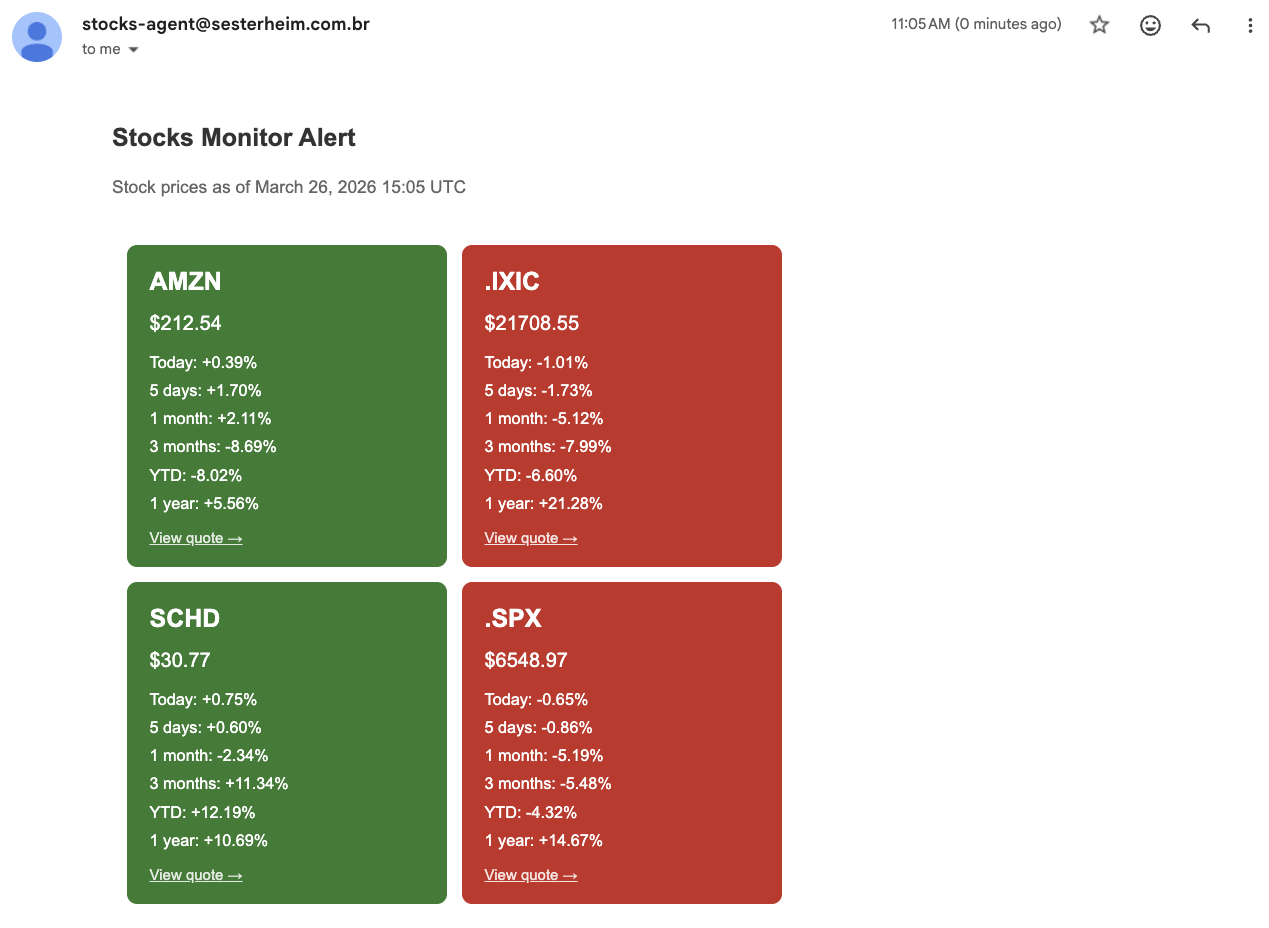
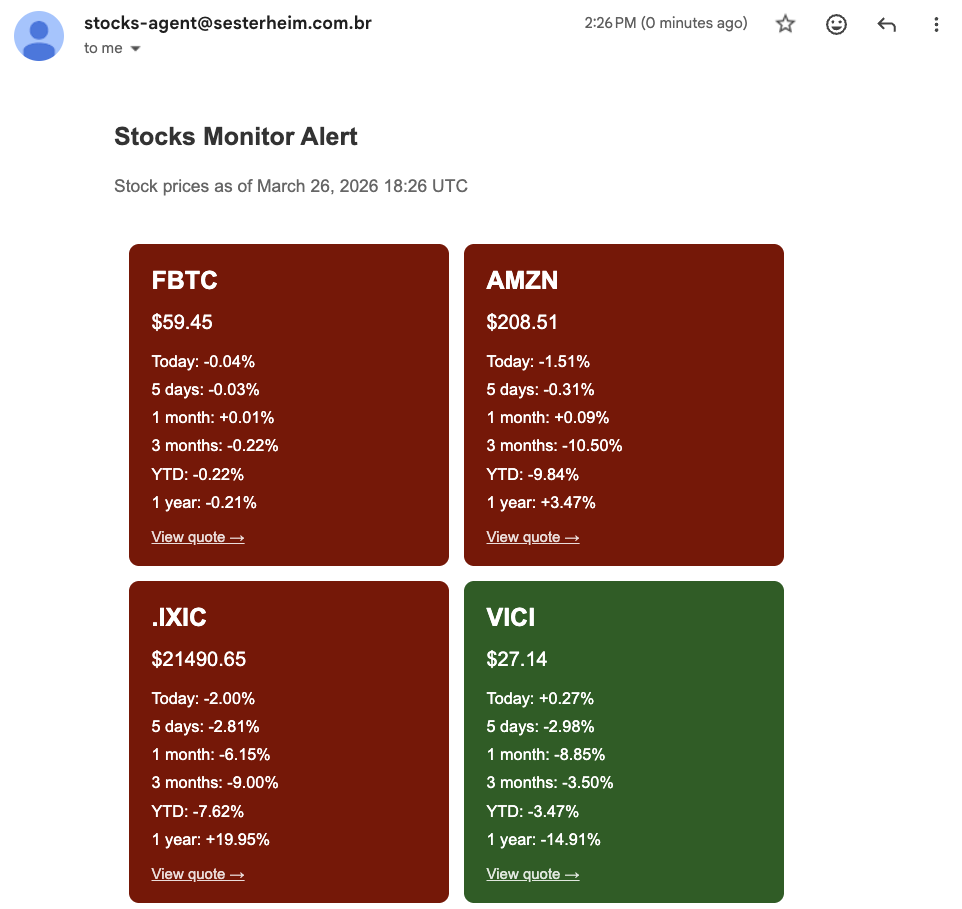
updating docs

diff --git a/stocks_monitor_agent/app/service/email_service.py b/stocks_monitor_agent/app/service/email_service.py
@@ -47,7 +47,7 @@ def _build_stock_tiles_rows(stocks: list[StockMarketData], stock_quote_url_templ
 
 def _build_stock_tile_html(stock: StockMarketData, stock_quote_url_template: str) -> str:
     """Builds a single stock tile as a table cell with inline styles for Gmail compatibility."""
-    bg_color = "#2e7d32" if stock.daily_change_percent >= 0 else "#c62828"
+    bg_color = "#1b5e20" if stock.daily_change_percent >= 0 else "#7f0000"
     quote_url = stock_quote_url_template.replace("<value>", stock.ticker)
 
     def fmt(value: float) -> str:
